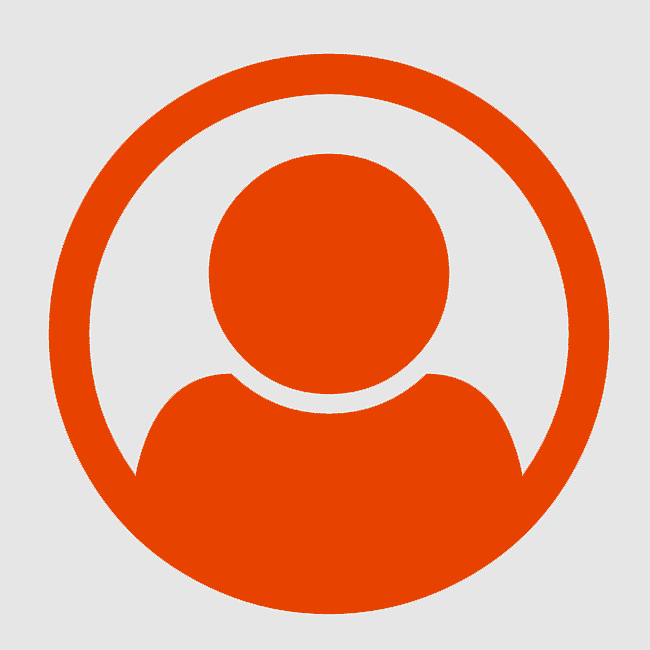
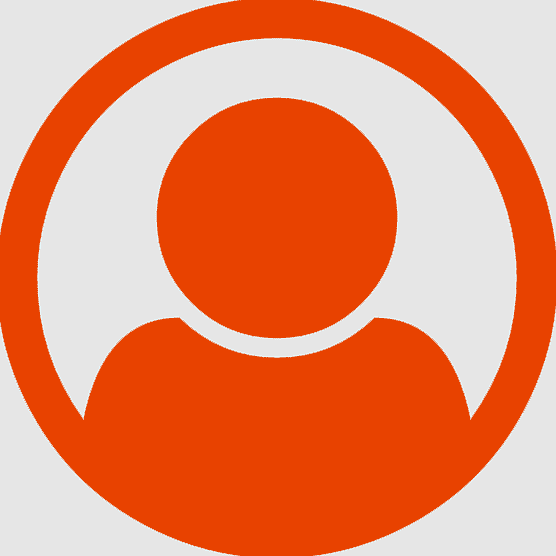
worked on better responsiveness

diff --git a/src/pages/donor/DonorHome.jsx b/src/pages/donor/DonorHome.jsx
@@ -79,7 +79,7 @@ const DonorHome = () => {
               "Thanks to your support, Aarav rode into his 6th birthday with a brand-new bicycle and the biggest smile on his face.",
               "Your contributions helped young Aarav start his school year with new books, a fresh uniform, and renewed hope for the future."
             ];
-            const msg = messages[idx % 4];
+            const msg = messages[idx % 6];
 
             return (
               <div key={idx} className="inline-block w-64 h-64 mx-4 relative group overflow-hidden rounded-xl">
@@ -88,7 +88,7 @@ const DonorHome = () => {
                   alt={`Card ${idx}`}
                   className="w-full h-full object-cover rounded-xl transition-transform duration-500 group-hover:scale-110"
                 />
-                <div className="absolute inset-0 bg-black bg-opacity-60 opacity-0 group-hover:opacity-100 transition duration-500 flex items-center justify-center text-sm text-white p-4 text-center">
+                <div className="absolute inset-0 bg-black bg-opacity-60 opacity-0 group-hover:opacity-100 transition duration-500 flex items-center justify-center text-wrap text-sm text-white px-3 text-center leading-snug">
                   {msg}
                 </div>
               </div>
@@ -102,12 +102,17 @@ const DonorHome = () => {
         <div className="max-w-7xl mx-auto grid grid-cols-1 md:grid-cols-3 gap-10">
           <div>
             <h2 className="text-xl font-bold mb-3">About VEEROKISEVA</h2>
-            <p className="text-sm text-gray-700">
-              A tech-for-good initiative to empower the unsung families of India’s brave soldiers through community participation, transparency, and service.
-            </p>
+<p className="text-sm text-gray-700 leading-relaxed">
+  <span className="font-semibold text-black">VEEROKISEVA</span> is a <span className="text-orange-600 font-medium">tech-for-good initiative</span> dedicated to honoring the sacrifices of our brave Indian soldiers by supporting their families — the unsung heroes left behind.
+  <br /><br />
+  Through a transparent and community-driven platform, we connect donors, volunteers, and organizations to directly uplift martyrs’ families. Whether it’s funding a child’s education, sponsoring a daughter’s wedding, or supporting elderly parents, every contribution creates real impact.
+  
+</p>
+
+
           </div>
           <div>
-            <h2 className="text-xl font-bold mb-3">Explore</h2>
+            <h2 className="text-xl font-bold mb-3 ">Explore</h2>
             <ul className="text-sm space-y-2">
               <li><a href="#" className="hover:text-orange-600">Who We Are</a></li>
               <li><a href="#" className="hover:text-orange-600">Our Aim</a></li>
@@ -126,23 +131,29 @@ const DonorHome = () => {
           </div>
         </div>
       </footer>
+      
 
       {/* Animation Styles */}
       <style>{`
-        .horizontal-scroll {
-          display: inline-block;
-          white-space: nowrap;
-        }
+  .horizontal-scroll {
+    display: inline-block;
+    white-space: nowrap;
+  }
 
-        @keyframes scrollLeft {
-          0% { transform: translateX(0); }
-          100% { transform: translateX(-50%); }
-        }
+  @keyframes scrollLeft {
+    0% { transform: translateX(0); }
+    100% { transform: translateX(-50%); }
+  }
 
-        .animate-scroll {
-          animation: scrollLeft 30s linear infinite;
-        }
-      `}</style>
+  .animate-scroll {
+    animation: scrollLeft 30s linear infinite;
+  }
+
+  .animate-scroll:hover {
+    animation-play-state: paused;
+  }
+`}</style>
+
     </div>
   );
 };

diff --git a/src/App.jsx b/src/App.jsx
@@ -1,4 +1,5 @@
 import React from 'react';
+import PrivateRoute from './components/PrivateRoute';
 import { Routes, Route } from 'react-router-dom';
 import DonorAuthPage from './pages/DonorAuthPage';
 import ArmyAuthPage from './pages/ArmyAuthPage';
@@ -30,28 +31,55 @@ const App = () => {
   return (
     <>
     <Routes>
-      <Route path="/" element={<RoleSelection />} />
-      {/* We'll add these pages next */}
-      <Route path="/login/donor" element={<DonorAuthPage />} />
-      <Route path="/login/army" element={<ArmyAuthPage/>} />
-      <Route path="/army/dashboard" element={<ArmyDashboard />} />
-      <Route path="/army/submit-event" element={<ArmySubmitEvent />} />
-      <Route path="/army/my-events" element={<ArmyMyEvents />} />
+        <Route path="/" element={<RoleSelection />} />
+        <Route path="/login/donor" element={<DonorAuthPage />} />
+        <Route path="/login/army" element={<ArmyAuthPage />} />
+        <Route path="/login" element={<LoginPage />} />
+        <Route path="/signup" element={<SignupPage />} />
 
-      <Route path="/donor/home" element={<DonorHome />} />
-      <Route path="/donor/events" element={<DonorEvents />} />
-      <Route path="/donor/donate" element={<DonorDonate />} />
-      <Route path="/donor/dashboard" element={<DonorDashboard />} />
-      <Route path="/donor/profile" element={<DonorProfile />} />
-      <Route path="/login" element={<LoginPage />} />
-      <Route path="/signup" element={<SignupPage />} />
+        {/* Protected Army Routes */}
+        <Route
+          path="/army/dashboard"
+          element={<PrivateRoute><ArmyDashboard /></PrivateRoute>}
+        />
+        <Route
+          path="/army/submit-event"
+          element={<PrivateRoute><ArmySubmitEvent /></PrivateRoute>}
+        />
+        <Route
+          path="/army/my-events"
+          element={<PrivateRoute><ArmyMyEvents /></PrivateRoute>}
+        />
 
-      <Route path="/admin/login" element={<AdminLogin />} />
-      <Route path="/admin" element={<AdminLayout />}>
-      <Route path="events" element={<EventsPage />} />
-      <Route path="stats" element={<StatsPage />} />
-      </Route>
-    </Routes>
+        {/* Protected Donor Routes */}
+        <Route
+          path="/donor/home"
+          element={<PrivateRoute><DonorHome /></PrivateRoute>}
+        />
+        <Route
+          path="/donor/events"
+          element={<PrivateRoute><DonorEvents /></PrivateRoute>}
+        />
+        <Route
+          path="/donor/donate"
+          element={<PrivateRoute><DonorDonate /></PrivateRoute>}
+        />
+        <Route
+          path="/donor/dashboard"
+          element={<PrivateRoute><DonorDashboard /></PrivateRoute>}
+        />
+        <Route
+          path="/donor/profile"
+          element={<PrivateRoute><DonorProfile /></PrivateRoute>}
+        />
+
+        {/* Admin Routes (optional: protect if needed) */}
+        <Route path="/admin/login" element={<AdminLogin />} />
+        <Route path="/admin" element={<AdminLayout />}>
+          <Route path="events" element={<EventsPage />} />
+          <Route path="stats" element={<StatsPage />} />
+        </Route>
+      </Routes>
     <ChatbotWidget />
     <ToastContainer />
 

diff --git a/src/pages/donor/DonorEvents.jsx b/src/pages/donor/DonorEvents.jsx
@@ -80,24 +80,6 @@ const EventsPage = () => {
       );
     }
 
-    switch (sortBy) {
-      case 'newest':
-        filtered.sort((a, b) => new Date(b.date) - new Date(a.date));
-        break;
-      case 'urgent':
-        filtered.sort((a, b) => (b.urgent || 0) - (a.urgent || 0));
-        break;
-      case 'amount':
-        filtered.sort((a, b) => (b.targetAmount || 0) - (a.targetAmount || 0));
-        break;
-      case 'progress':
-        filtered.sort((a, b) => {
-          const progressA = ((a.raisedAmount || 0) / (a.targetAmount || 1)) * 100;
-          const progressB = ((b.raisedAmount || 0) / (b.targetAmount || 1)) * 100;
-          return progressB - progressA;
-        });
-        break;
-    }
 
     setTimeout(() => {
       setFilteredEvents(filtered);
@@ -140,7 +122,7 @@ const EventsPage = () => {
 
           <div className="grid grid-cols-2 md:grid-cols-4 gap-4 mb-8">
             {[
-              { icon: Heart, label: 'Active Events', value: stats.activeEvents, color: 'text-red-400' },
+              { icon: Heart, label: 'Active Events', value: 12, color: 'text-red-400' },
               { icon: Users, label: 'Total Donors', value: stats.totalDonors, color: 'text-blue-400' },
               { icon: Target, label: 'Total Events', value: stats.totalEvents, color: 'text-green-400' },
               { icon: TrendingUp, label: 'Funds Raised', value: `₹${(stats.totalRaised / 100000).toFixed(1)}L`, color: 'text-orange-400' }
@@ -154,28 +136,8 @@ const EventsPage = () => {
           </div>
         </div>
 
-        <div className="max-w-7xl mx-auto px-4 mb-8">
-          <div className="flex flex-col md:flex-row gap-4 items-center">
-            <input
-              type="text"
-              placeholder="Search events..."
-              value={searchTerm}
-              onChange={(e) => setSearchTerm(e.target.value)}
-              className="flex-1 px-4 py-3 rounded-xl border bg-white/20 text-white placeholder-white/70 focus:outline-none"
-            />
-            <select
-              value={sortBy}
-              onChange={(e) => setSortBy(e.target.value)}
-              className="px-4 py-3 rounded-xl bg-white/20 text-white"
-            >
-              <option value="newest">Newest</option>
-              <option value="urgent">Most Urgent</option>
-              <option value="amount">Highest Amount</option>
-              <option value="progress">Most Progress</option>
-            </select>
-          </div>
-        </div>
-
+        
+    
 
 
         

diff --git a/src/components/DonorNavbar.jsx b/src/components/DonorNavbar.jsx
@@ -15,7 +15,7 @@ const DonorNavbar = () => {
   const handleLogout = () => {
     localStorage.removeItem("token");
     sessionStorage.clear();
-    navigate("/login");
+    navigate("/login",{ replace: true });
   };
 
   useEffect(() => {
@@ -41,7 +41,7 @@ const DonorNavbar = () => {
       {/* === TOP NAV === */}
       {!isMobile || !isScrolled ? (
         <nav className={`fixed top-0 left-0 w-full transition-all duration-500 
-  ${isMobile ? "z-50" : isScrolled ? "z-0" : "z-50 bg-stone-900 bg-opacity-80"}
+  ${isMobile ? "z-50 bg-stone-900 bg-opacity-80" : isScrolled ? "z-0" : "z-50 bg-stone-900 bg-opacity-80"}
 `}>
 
           <div className="max-w-7xl mx-auto flex items-center justify-between px-6 py-3">

diff --git a/src/pages/donor/DonorProfile.jsx b/src/pages/donor/DonorProfile.jsx
@@ -65,14 +65,14 @@ const DonorProfile = () => {
 
             {/* Profile Picture */}
             <div className="flex flex-col items-center mb-6">
-              <div className="w-32 h-32 rounded-full border-4 border-green-500 overflow-hidden bg-gray-100">
+              <div className="w-32 h-32 rounded-full border-4  overflow-hidden bg-gray-100">
                 <img
                   src={defaultProfilePic}
                   alt="Profile"
                   className="w-full h-full object-cover"
                 />
               </div>
-              <p className="mt-3 italic text-sm text-gray-600">Default Profile Image</p>
+              
             </div>
 
             {/* Inputs */}

diff --git a/src/components/PrivateRoute.jsx b/src/components/PrivateRoute.jsx
@@ -1,0 +1,9 @@
+import { Navigate } from 'react-router-dom';
+
+const PrivateRoute = ({ children }) => {
+  const token = localStorage.getItem("token"); // or use context if available
+
+  return token ? children : <Navigate to="/login" replace />;
+};
+
+export default PrivateRoute;
